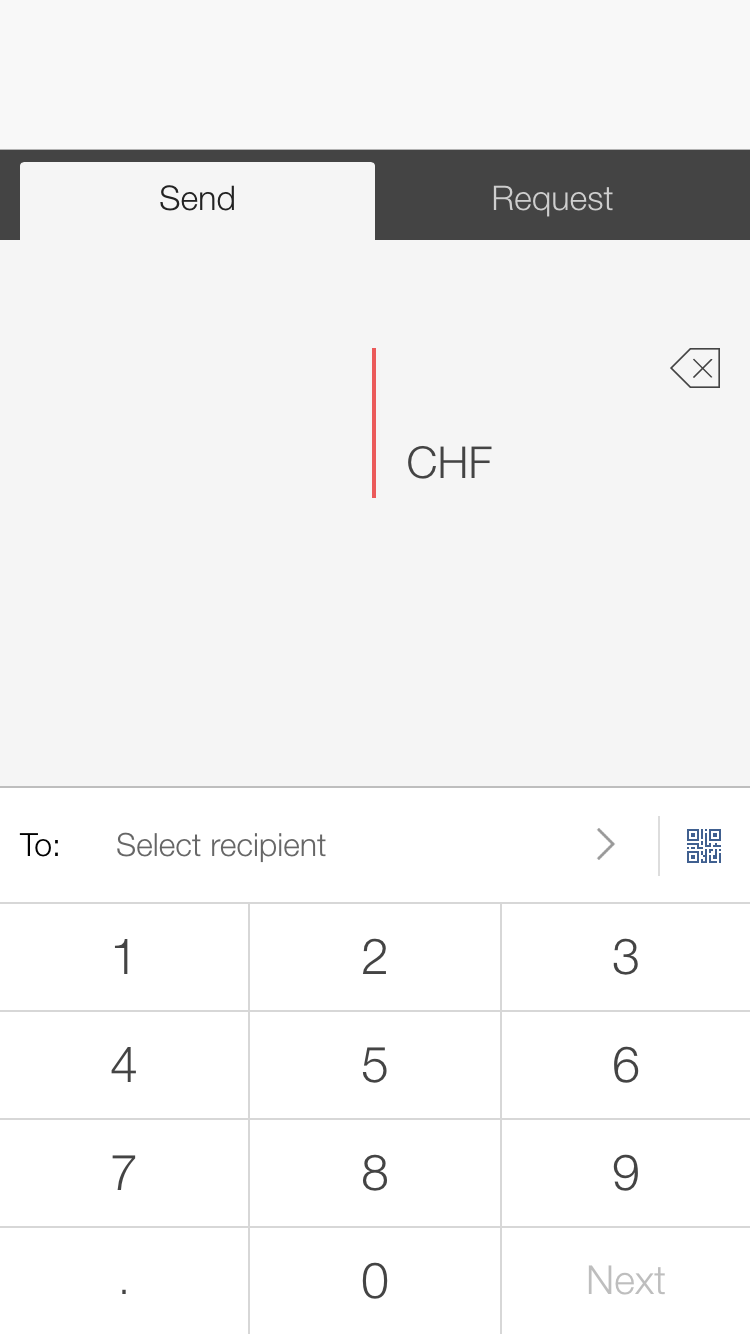
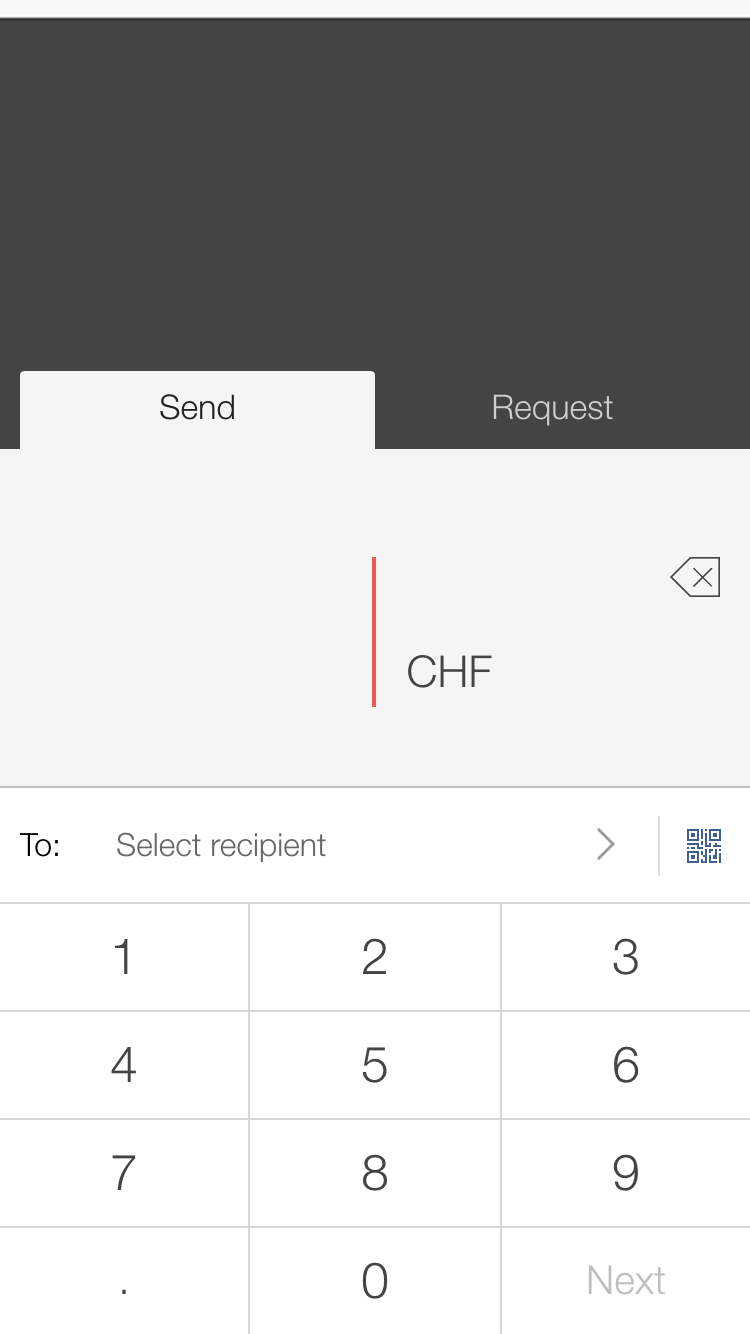
appification

Changed region(s): [[0.0, 0.0, 1.0, 0.3688], [0.4907, 0.4303, 0.644, 0.5225], [0.92, 0.4303, 0.9507, 0.461]]

diff --git a/clientApp/www/css/style.css b/clientApp/www/css/style.css
@@ -27,8 +27,23 @@ body .pane {
 }
 
 .bg1 {
-  background: url(../img/bg1.png) bottom no-repeat;
-  background-size: 100%; 
+  background: url(../img/bg-bottom.png) bottom 60px center no-repeat;
+  background-size: 100%;
+  position: absolute;
+  top: 0;
+  bottom: 0;
+  left: 0;
+  right: 0;
+}
+
+.bg2 {
+  background: url(../img/bg-top.png) top center no-repeat #f5f5f5;
+  background-size: 100%;
+  position: relative;
+}
+
+.bg2 .scroll {
+  width: 100%;
 }
 
 .itemName{
@@ -94,7 +109,7 @@ body .pane {
 }
 
 .sharewith .scroll {
-	width: 100%;
+	width: 90%;
 }
 
 .sharewith .list {
@@ -117,7 +132,7 @@ body .pane {
   display: inline-block;
   width: 150px;
   height: 150px;
-  bottom: 150px;
+  bottom: 180px;
   -ms-transform: rotate(-45deg) translate(-100px);
   -moz-transform: rotate(-45deg) translate(-100px);
   -o-transform: rotate(-45deg) translate(-100px);

diff --git a/clientApp/www/js/controllers.js b/clientApp/www/js/controllers.js
@@ -8,6 +8,8 @@ angular.module('clientapp')
 AppCtrl.$inject=['QRFactory','SocketFactory','$ionicPopup','Urls','AppIdentifier','$http','$scope', '$state', '$rootScope', '$ionicPlatform', '$cordovaLocalNotification', '$ionicSideMenuDelegate'];
 function AppCtrl(QRFactory, SocketFactory, $ionicPopup, Urls, AppIdentifier, $http, $scope, $state, $rootScope, $ionicPlatform, $cordovaLocalNotification, $ionicSideMenuDelegate) {
 
+  $scope.paymit = '<img class="title-image" src="img/paymit-logo_sm.png" style="margin: 9px 0 0 15px;"/>';
+
   SocketFactory.on('echo', function(data){
       $scope.notif = data;
   });

diff --git a/clientApp/www/js/app.js b/clientApp/www/js/app.js
@@ -50,16 +50,17 @@ angular.module('clientapp', ['ionic','ngCordova'])
       }
 
       if (window.cordova && window.cordova.plugins.Keyboard) {
-
-
         cordova.plugins.Keyboard.hideKeyboardAccessoryBar(true);
         cordova.plugins.Keyboard.disableScroll(true);
+      }
 
+      if (window.cordova && $cordovaKeyboard) {
+        $cordovaKeyboard.hideAccessoryBar(true);
       }
       if (window.StatusBar) {
-        // org.apache.cordova.statusbar required
-        StatusBar.styleDefault();
+          StatusBar.styleDefault();
       }
+
     });
   })
 

diff --git a/clientApp/www/index.html b/clientApp/www/index.html
@@ -18,7 +18,6 @@
 
     <!-- cordova script (this will be a 404 during development) -->
     <!-- Cordova is bootstrapped by ionic-platform-web-client, uncomment this if you remove ionic-platform-web-client... -->
-<!-- <script src="cordova.js"></script> -->
     <script src="js/vendor/ng-cordova.js"></script>
     <script src="js/vendor/socket.io.js"></script>
 
@@ -30,5 +29,6 @@
 
   <body ng-app="clientapp" class="platform-ios">
     <ion-nav-view></ion-nav-view>
+    <script src="cordova.js"></script>
   </body>
 </html>

diff --git a/clientApp/www/templates/base.html b/clientApp/www/templates/base.html
@@ -1,4 +1,7 @@
-<ion-view view-title="PAYMIT">
-  <ion-content class="bg1">
+<ion-view view-title="{{paymit}}">
+  <ion-content class="bg2">
+  	<div class="bg1">
+  		
+  	</div>
   </ion-content>
 </ion-view>
